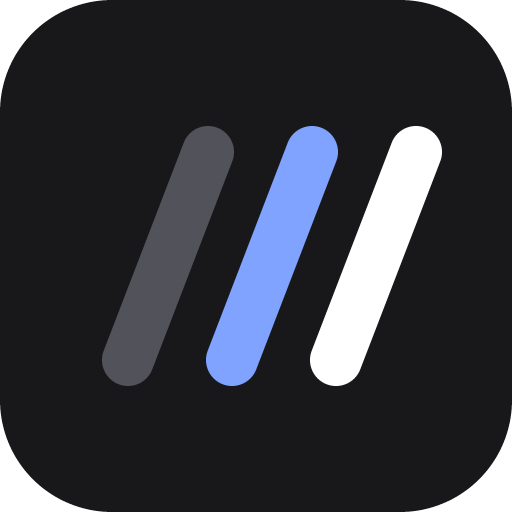
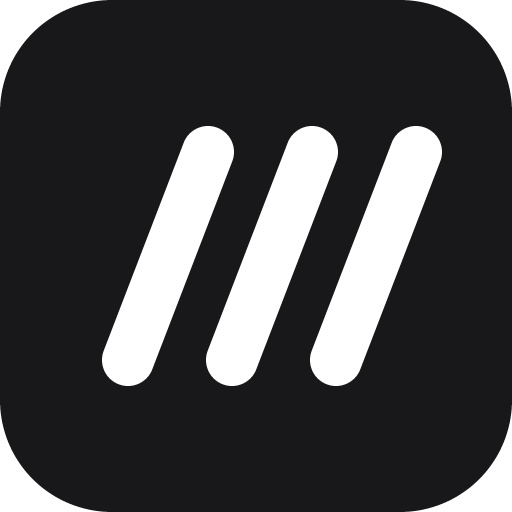
Acceso: remates (iconos en blanco y negro, cerezo que entra suave, carcasa visible de noche, aviso sin conexión)
- Los iconos PNG de la app se regeneran con tres barras blancas, como favicon.svg;
  make-icons.js genera también favicon-32 y apple-touch-icon.
- El cerezo aparece poco a poco cuando llega su imagen, en vez de saltar.
- De noche la carcasa del ordenador lleva luz de relleno y un filo frío.
- El aviso de «sin conexión con el acceso» tiene el aspecto de los demás pasos.

Changed region(s): [[0.375, 0.2188, 0.6875, 0.7812], [0.1875, 0.25, 0.4688, 0.75]]

diff --git a/src/views/auth-scene.js b/src/views/auth-scene.js
@@ -688,6 +688,9 @@
     '        float skyL = .5 + .5 * n.y;',
     '        col = alb * (ambient * .9 * ao + mix(vec3(.20, .27, .40), skyLight, uNight) * skyL * 1.7 * ao + sunCol * dif * 1.1 * shd);',
     '        col += sunCol * spec * shd;',
+    /* De noche, sin esto, la carcasa se queda en una silueta negra: luz de relleno del cielo */
+    /* y un filo frío en los cantos, para que se lea la forma. */
+    '        col += alb * (vec3(.030, .040, .075) + vec3(.10, .13, .24) * pow(1. - max(dot(n, -rd), 0.), 2.5)) * uNight;',
     '        col += skyBase(refl, L) * fres * .22 * ao;',
     /* La hierba le devuelve un poco de verde por debajo. */
     '        col += alb * vec3(.05, .09, .03) * max(-n.y, 0.) * (1. - uNight);',
@@ -719,7 +722,7 @@
     /* Es un modelo 3D renderizado aparte a una imagen con transparencia (assets/img/sakura.webp), */
     /* puesta sobre un plano fijo, de cara a la cámara. El tronco y las ramas no se mueven; las */
     /* flores, sí. */
-    '  if(uTreeOn > .5){',
+    '  if(uTreeOn > .002){',
     '    vec3 pn = normalize(vec3(-2.2, 0., 11.5));',
     '    vec3 pr = vec3(pn.z, 0., -pn.x);',
     '    float tp = dot(treeB - ro, pn) / dot(rd, pn);',
@@ -748,6 +751,8 @@
     '      tr = clamp(tr + (tr - soft) * .9, 0., 1.);',
     '      tr.rgb = min(tr.rgb, vec3(tr.a));',
     '    }',
+    /* Mientras llega la imagen, el árbol entra poco a poco. */
+    '    tr *= uTreeOn;',
     '    if(tp > 0. && !(tGround > 0. && tGround < tp)){',
     '      if(tuv.x > 0. && tuv.x < 1. && tuv.y > 0. && tuv.y < 1.){',
     /* Luz del momento: cálida al atardecer, fría y apagada de noche; algo más honda abajo. */
@@ -1346,7 +1351,7 @@
 
     /* El cerezo: un modelo 3D renderizado aparte a una imagen con transparencia. Hasta que
        llega, la escena se pinta sin él. */
-    let treeReady = false;
+    let treeReady = false, treeFade = 0;
     const treeTex = gl.createTexture();
     const treeImg = new Image();
     treeImg.onload = () => {
@@ -1545,7 +1550,8 @@
       gl.uniform1i(scene.U.uText, 1);
       gl.uniform1f(scene.U.uTextW, textW);
       gl.activeTexture(gl.TEXTURE0);
-      gl.uniform1f(scene.U.uTreeOn, treeReady ? 1 : 0);
+      treeFade = treeReady ? ease(treeFade, 1, 2.6) : 0;
+      gl.uniform1f(scene.U.uTreeOn, treeFade);
       gl.bindVertexArray(fullVao);
       gl.drawArrays(gl.TRIANGLES, 0, 3);
 

diff --git a/scripts/make-icons.js b/scripts/make-icons.js
@@ -4,6 +4,8 @@
    escribe los PNG. Uso: node scripts/make-icons.js
 
    - icon-192.png / icon-512.png: el logo con esquinas redondeadas (como favicon.svg).
+   - favicon-32.png: lo mismo, para la pestaña en navegadores sin SVG.
+   - apple-touch-icon.png: a sangre (iOS ya redondea las esquinas).
    - icon-maskable-512.png: a sangre, con el dibujo dentro de la zona segura
      (Android recorta el icono con la forma que elija el móvil). */
 'use strict';
@@ -14,8 +16,8 @@ const zlib = require('zlib');
 const OUT = path.join(__dirname, '..', 'assets', 'img');
 const INK = [0x18, 0x18, 0x1B];
 const BARS = [
-  {x: 16, color: [0x52, 0x52, 0x5B]},
-  {x: 29, color: [0x7F, 0xA3, 0xFF]},
+  {x: 16, color: [0xFF, 0xFF, 0xFF]},
+  {x: 29, color: [0xFF, 0xFF, 0xFF]},
   {x: 42, color: [0xFF, 0xFF, 0xFF]}
 ];
 const HALF = 6.5 / 2;
@@ -89,7 +91,9 @@ function png(size, rounded, scale){
 [
   ['icon-192.png', 192, true, 1],
   ['icon-512.png', 512, true, 1],
-  ['icon-maskable-512.png', 512, false, 0.66]
+  ['icon-maskable-512.png', 512, false, 0.66],
+  ['favicon-32.png', 32, true, 1],
+  ['apple-touch-icon.png', 180, false, 0.82]
 ].forEach(([name, size, rounded, scale]) => {
   fs.writeFileSync(path.join(OUT, name), png(size, rounded, scale));
   console.log(name);

diff --git a/src/views/auth-view.js b/src/views/auth-view.js
@@ -227,11 +227,15 @@
       this.panel.hidden = true;
       this.loading.hidden = false;
       this.loading.classList.add('is-error');
-      this.loading.innerHTML = '<span>No se pudo conectar con el servicio de acceso. Comprueba tu conexión.</span>';
+      const t = Workhub.t;
+      this.loading.innerHTML =
+        '<span class="auth-badge" aria-hidden="true"><svg viewBox="0 0 24 24" width="20" height="20" fill="none" stroke="currentColor" stroke-width="1.8" stroke-linecap="round" stroke-linejoin="round"><path d="M2 8.8a15 15 0 0 1 20 0"/><path d="M5 12.5a10.5 10.5 0 0 1 14 0"/><path d="M8.5 16a5.5 5.5 0 0 1 7 0"/><path d="M12 20h.01"/><path d="M3 3l18 18"/></svg></span>' +
+        '<strong class="auth-verify-title">' + esc(t('Sin conexión con el acceso')) + '</strong>' +
+        '<span class="auth-sent-text">' + esc(t('No se pudo conectar con el servicio de acceso. Comprueba tu conexión.')) + '</span>';
       const btn = document.createElement('button');
       btn.type = 'button';
-      btn.className = 'btn btn-ghost';
-      btn.textContent = 'Reintentar';
+      btn.className = 'btn btn-primary auth-submit';
+      btn.textContent = t('Reintentar');
       btn.addEventListener('click', onRetry);
       this.loading.appendChild(btn);
     }

diff --git a/assets/css/views/auth.css b/assets/css/views/auth.css
@@ -302,7 +302,8 @@ html.auth-gate .app{display:none !important;}
 
 /* ---------- Estados: carga, error y correo sin verificar ---------- */
 .auth-loading{display:flex;align-items:center;gap:10px;color:var(--ink-soft);font-size:13.5px;line-height:1.5;}
-.auth-loading.is-error{color:var(--danger);align-items:flex-start;flex-direction:column;}
+.auth-loading.is-error{align-items:stretch;flex-direction:column;gap:0;color:var(--ink-soft);}
+.auth-loading.is-error .auth-sent-text{margin-bottom:18px;}
 .auth-loading.is-verify{flex-direction:column;align-items:stretch;gap:0;color:var(--ink-soft);}
 .auth-verify-title{margin:0 0 8px;color:var(--ink);font-size:24px;font-weight:600;letter-spacing:-0.028em;line-height:1.15;}
 .auth-verify-msg{margin:0 0 12px;}

diff --git a/src/i18n/en.js b/src/i18n/en.js
@@ -1029,6 +1029,7 @@
     'Continuar con Apple':'Continue with Apple',
     'No se pudo conectar con el servicio de acceso. Comprueba tu conexión.':'Couldn\'t connect to the sign-in service. Check your connection.',
     'Reintentar':'Retry',
+    'Sin conexión con el acceso':'Sign-in is unreachable',
     'Verifica tu correo':'Verify your email',
     'Ya lo he verificado':'I\'ve verified it',
     'Reenviar correo':'Resend email',

diff --git a/CONTEXT.md b/CONTEXT.md
@@ -327,6 +327,7 @@ Encima de todo va el selector de **proyectos**: cada proyecto es un tablero inde
   - **Rendimiento y calidad adaptable.** Se pinta a 30 fotogramas por segundo, con el lado mayor del lienzo limitado a 1920 px, y solo mientras la pantalla de acceso está a la vista; con movimiento reducido, un único fotograma. Si los fotogramas llegan tarde se pintan menos briznas, más anchas (`BLADE_LEVELS`: 100 %, 55 %, 30 %, 16 %) y a menos resolución; en pantallas táctiles se empieza en el 30 %. Medido en el equipo del dueño (RTX 4070, 1920×1000): ~12 ms por fotograma. **No está medido en un equipo modesto ni en un móvil de verdad.**
   - **Cómo comprobarla.** Las capturas de siempre corren sin tarjeta gráfica (SwiftShader): compila y pinta, pero muy despacio, y **no muestra los fallos de movimiento**. Para eso hay que lanzar Edge con la GPU real (`--use-gl=angle --use-angle=d3d11`) y comparar los píxeles del lienzo entre fotogramas. **Lección: «no se mueve» se mide, no se deduce de una captura fija.**
   - **Mejoras de la escena (oct-2026, rama `claude/acceso-escena`, diez puntos que pidió el dueño).** 1) **Hierba de noche** apagada y fría (antes, verde encendido) y la luz de la pantalla sobre ella, más contenida. 2) **El ordenador es un 22 % mayor** (`CS` en `COMMON`: todo él está en sus propias medidas y las distancias de `computer()` se multiplican por `CS`) y en su tablero una tarea recorre las tres columnas. **Carcasa rediseñada a petición del dueño («hay partes que no están unidas»):** sigue las fotos de monitores de tubo que mandó de referencia: **marco frontal** claro y, detrás, **una carcasa azul que se estrecha hacia atrás** (una caja deformada; antes eran dos cajas con un corte de lado a lado, que las dejaba separadas), **rejilla de puntos en abanico** en los costados y **el pie pegado de arriba abajo**: un **zócalo macizo** que entra en la carcasa y baja hasta el suelo, con un plato redondo alrededor (un cuello fino entre dos piezas dejaba una rendija a los lados por la que se veía el fondo: **el pie no debe tener huecos que dejen ver a través**). El trazado del ordenador da 96 pasos y, si se acaban rozando una superficie, la da por tocada. La junta bajo la pantalla va grabada, los mandos llevan muesca y la insignia son tres barras limpias. El hueco de la pantalla tiene que llegar más hondo que el cristal (si quedan a ras, el borde de la imagen sale ondulado). **No volver a cortar la carcasa con una losa ni a hacerla con dos cajas: el escalón en sombra se lee como una separación.** 3) **La pantalla acompaña al formulario** (`authScene.signal()`, uniforme `uUI`): al escribir sale un cuadro de acceso con **el correo (o el nombre) letra a letra** (lo pidió el dueño; se pinta en un lienzo 2D aparte y se sube como textura, `uText`; si no cabe se ve el final) y **la contraseña como puntos: de ella solo se pasa cuántos caracteres hay, nunca cuáles**, una barra que va y viene mientras se espera, un golpe rojo si falla y, al entrar, una marca verde que ilumina la hierba; `AuthView.celebrate()` deja esa señal 850 ms **mientras se cargan los datos** (`AuthController.enter`), sin sumar espera si tardan más. 4) **Luciérnagas** más pequeñas y nítidas; solo dos pasan pegadas a la cámara. 5) **Cerezo más nítido** con una máscara de enfoque en el sombreador (`treeAt`); **no se ha vuelto a renderizar el modelo** (no hay Blender ni los guiones; sigue pendiente la licencia). 6) **Cielo**: las nubes pasan y se rehacen, las estrellas titilan, la bruma se desliza entre las sierras. 7) **Cambio de tema**: el paso de atardecer a noche dura lo mismo en cualquier equipo (avanza por tiempo, no por fotograma), y estrellas y luciérnagas salen cuando la noche ya está entrada. 8) **Momento del día:** el sombreador sabe pintar también amanecer y pleno día (`pal()`, `uDay`, `uDawn`), pero **el dueño prefirió el atardecer como modo claro**: claro = atardecer y oscuro = noche, siempre; los otros momentos solo se ven con `Workhub.views.authScene.hour(13)` en la consola. **No volver a ligarlo a la hora real sin que lo pida.** 9) **La hierba se aparta del cursor** (`uMouse`, solo con ratón; la cámara sigue fija). 10) **Rendimiento:** sin tarjeta gráfica (SwiftShader y similares) o con ahorro de datos se pinta **una sola imagen, pequeña, y se deja quieta**; los equipos con poco procesador o memoria empiezan un escalón por debajo; si ni en la calidad más baja llega, la escena se queda quieta (`frozen`). `authScene.state()`, `bench()` y `quality()` sirven para medir. Medido en el equipo del dueño (RTX 4070, 1920×1000, con `readPixels` para forzar a la tarjeta): **~25 ms por fotograma, igual que antes de los cambios (23–26 ms)**; en la calidad más baja, 8–10 ms. Sin tarjeta gráfica el formulario aparece en 1,5 s y responde. **Sigue sin medirse en un equipo modesto de verdad ni en un móvil.**
+  - **Remates (oct-2026, misma rama).** El **logo es el básico en blanco y negro** en todas partes (lo pidió el dueño: «el color lo eligen los usuarios»): la tarjeta de acceso usa `.brand-mark` (fondo y barras con el acento elegido), `favicon.svg` son tres barras blancas y los PNG (`icon-192`, `icon-512`, `icon-maskable-512`, `favicon-32`, `apple-touch-icon`) se regeneran con `node scripts/make-icons.js`; **`og-image.png` sigue con el logo anterior**. El ordenador va algo a la derecha del centro del panel de cristal (`layout()`, 0,575). El cerezo entra poco a poco cuando llega su imagen (`treeFade`). De noche la carcasa lleva luz de relleno y un filo frío para que no sea una silueta. El aviso «sin conexión con el acceso» (`showLoadError`) tiene el mismo aspecto que los pasos de correo.
   - **Historia breve.** Una primera versión plana (CSS y un SVG) no gustó («en 2D es terrible») y se borró. El dueño mandó de referencia una tarjeta mitad sólida y mitad cristal sobre una colina con un ordenador antiguo, y un vídeo de otra web («NovaDesk») con lomas de hierba fina y luz rasante; la escena calculada se le acerca, no lo iguala. Pidió quitar el texto «Todo tu trabajo, en un solo sitio» del panel derecho: es una ventana, sin texto.
 - **Formulario de acceso, rediseñado sobre otra referencia del dueño (oct-2026):** la marca va **dentro de la tarjeta**, arriba (enlace a la portada), y arriba a la derecha de la pantalla solo quedan el idioma y el tema. El contenido se apoya abajo: título, subtítulo, **campos rellenos sin etiqueta visible** (el texto va como `placeholder` y la etiqueta sigue para lectores de pantalla), «¿La has olvidado?» bajo la contraseña, el botón principal y, debajo, «o continúa con» y **una fila de accesos** (`#authAlt`): Google, GitHub e **Invitado**, con el nombre corto y el texto completo como ayuda al pasar. Los `id` de siempre se mantienen (`#authPanel`, `#authSwitchLink`, `#authName`, `#authEmail`, `#authPass`, `#authSubmit`, `#authGuestBtn`…). El paso de invitado sigue ocupando solo su pantalla.
 - **Estados del formulario de acceso (oct-2026, rama `claude/login-profesional`):** los errores van **pegados a su campo** (`#authEmailErr`, `#authPassErr`, con `aria-invalid` y el cursor en el campo; `FIELD_OF` en `auth-controller.js` dice a qué campo va cada código de Firebase; el resto sigue en `#authMsg`); el correo se comprueba antes de llamar al servidor; el botón pulsado enseña un **indicador de carga** (`setBusy(busy, 'submit' | proveedor)`, `.auth-spin`) y mientras tanto no se puede cambiar de modo; aviso de **Bloq Mayús** (`#authCaps`); **medidor de contraseña** al crear la cuenta (`#authMeter`, mínimo 8; es otro que el del cifrado, que exige 12); al cambiar de modo se conserva el correo, se vacía la contraseña y el cursor va al primer campo vacío (no en pantallas táctiles). Pedir el enlace de la contraseña lleva a un paso propio, **«Revisa tu correo»** (`#authSent`, `showResetSent`), con «Reenviar» que descansa 30 s; la **verificación del correo** tiene el mismo aspecto y **se comprueba sola al volver a la pestaña** (`visibilitychange`/`focus`). El aviso de cookies pasa a la derecha en esta pantalla (por encima de 860px) para no tapar el formulario. **Cerrar la ventana de Google o GitHub suelta los botones enseguida:** Firebase tarda varios segundos en avisar de que se cerró, así que `signInWith` libera el formulario 600 ms después de que la página recupere el foco (`hold`/`release` por turnos: un intento anterior que termina tarde no desbloquea ni pinta errores sobre el siguiente). No guarda nada nuevo en el navegador. `tests/e2e/cloud-smoke.js` cubre el error de campo, el paso «Revisa tu correo» y el medidor. **Sin probar con Firebase real** (solo con el emulador): los errores de credenciales y el envío real de correos.
